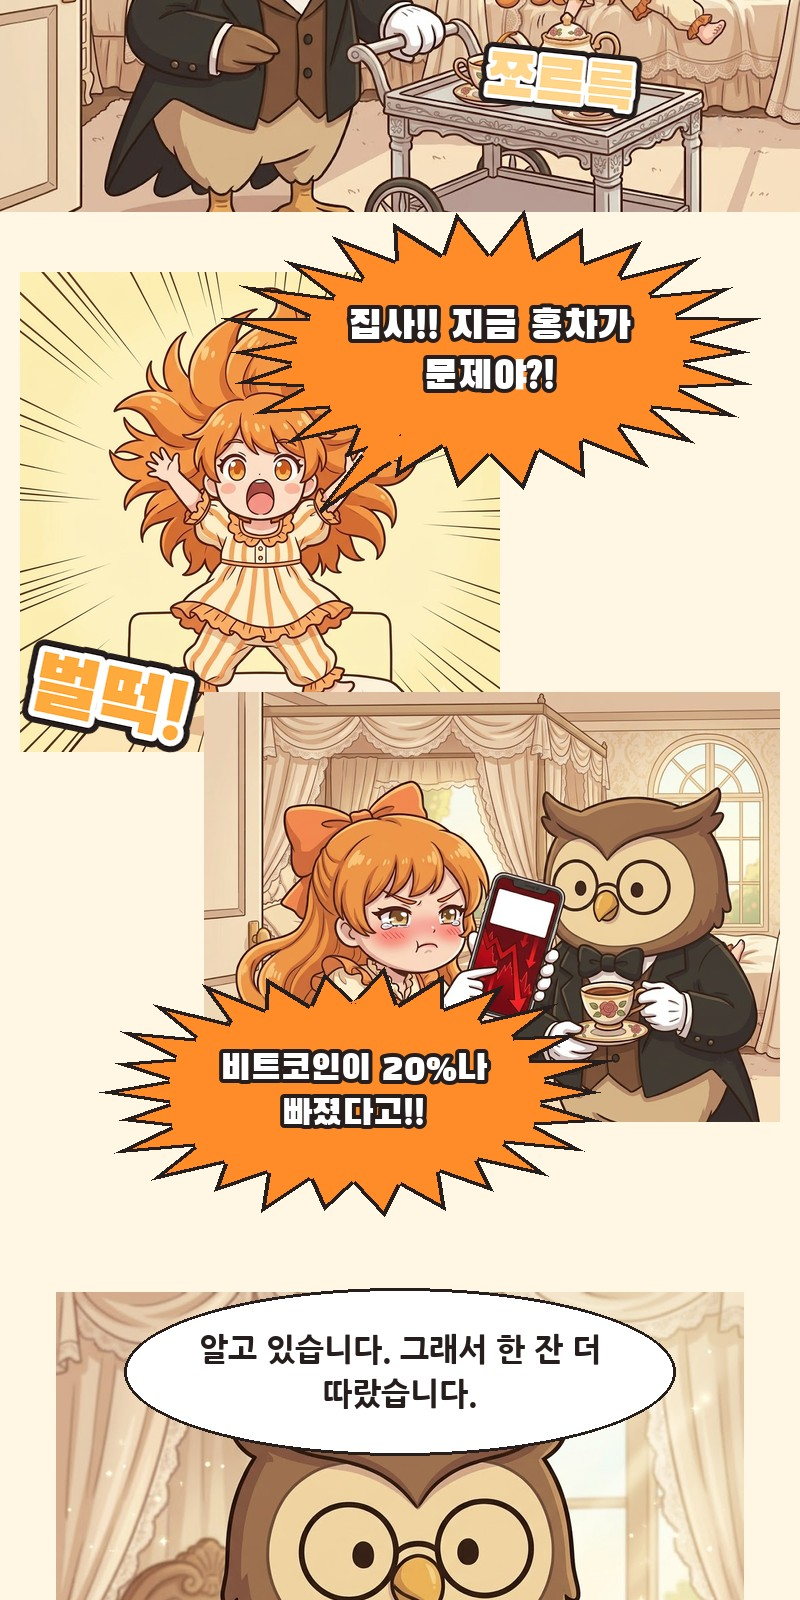
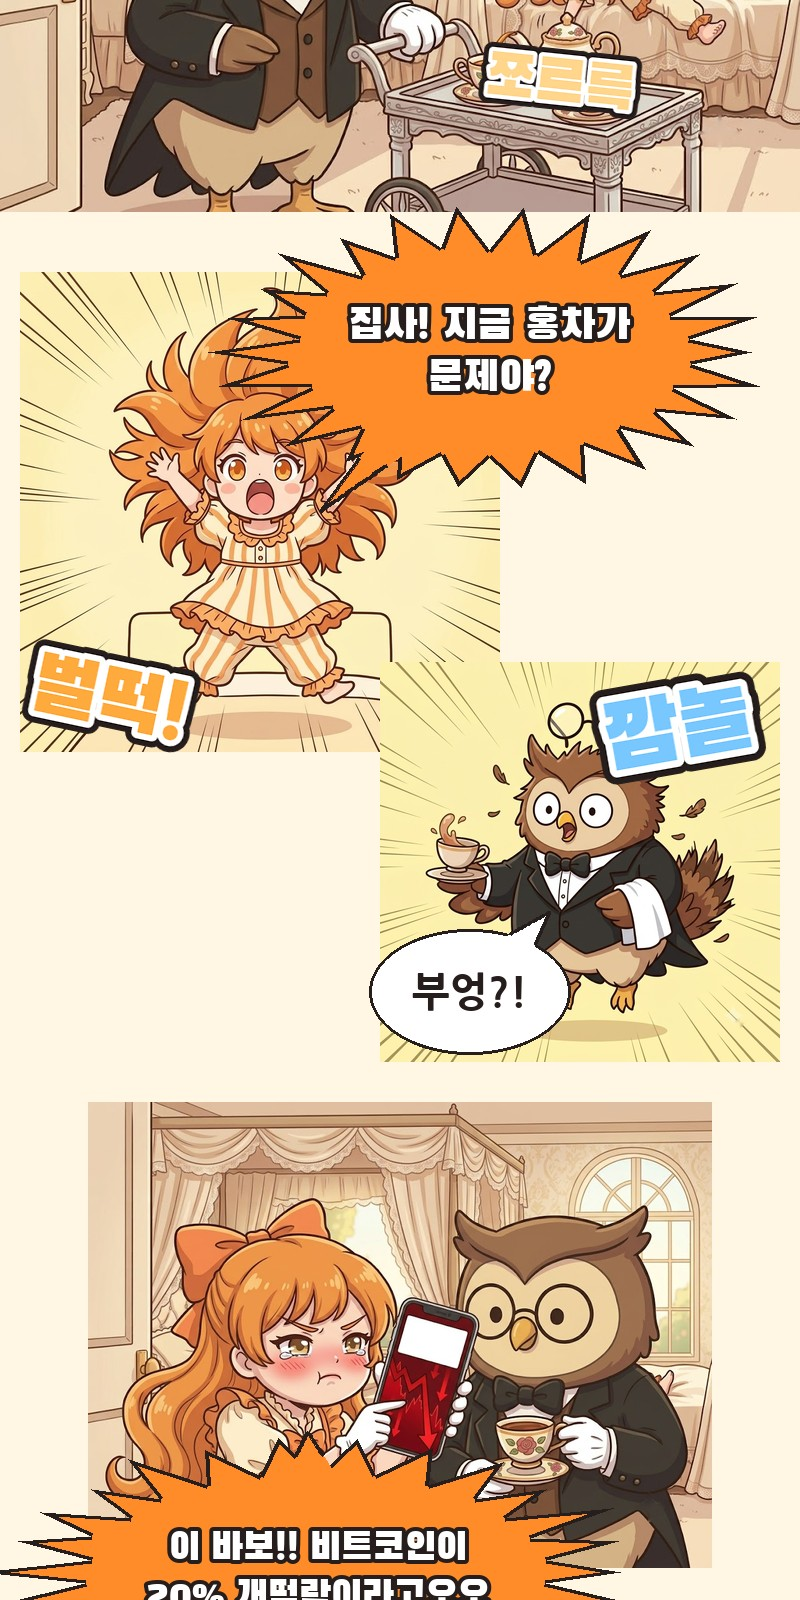
웹툰 2화: 대사 수정, 컷 8장 추가(깜놀·패닉셀·수수료입니다·홍차로 마음 가다듬기), 말풍선이 얼굴 가리지 않게

diff --git a/BTOON2.html b/BTOON2.html
@@ -52,6 +52,9 @@
     <img src="btoon2/p11.jpg" alt="2화 11" loading="lazy" width="800" height="1600">
     <img src="btoon2/p12.jpg" alt="2화 12" loading="lazy" width="800" height="1600">
     <img src="btoon2/p13.jpg" alt="2화 13" loading="lazy" width="800" height="1600">
+    <img src="btoon2/p14.jpg" alt="2화 14" loading="lazy" width="800" height="1600">
+    <img src="btoon2/p15.jpg" alt="2화 15" loading="lazy" width="800" height="1600">
+    <img src="btoon2/p16.jpg" alt="2화 16" loading="lazy" width="800" height="1600">
 </div>
 
 <div class="after">
